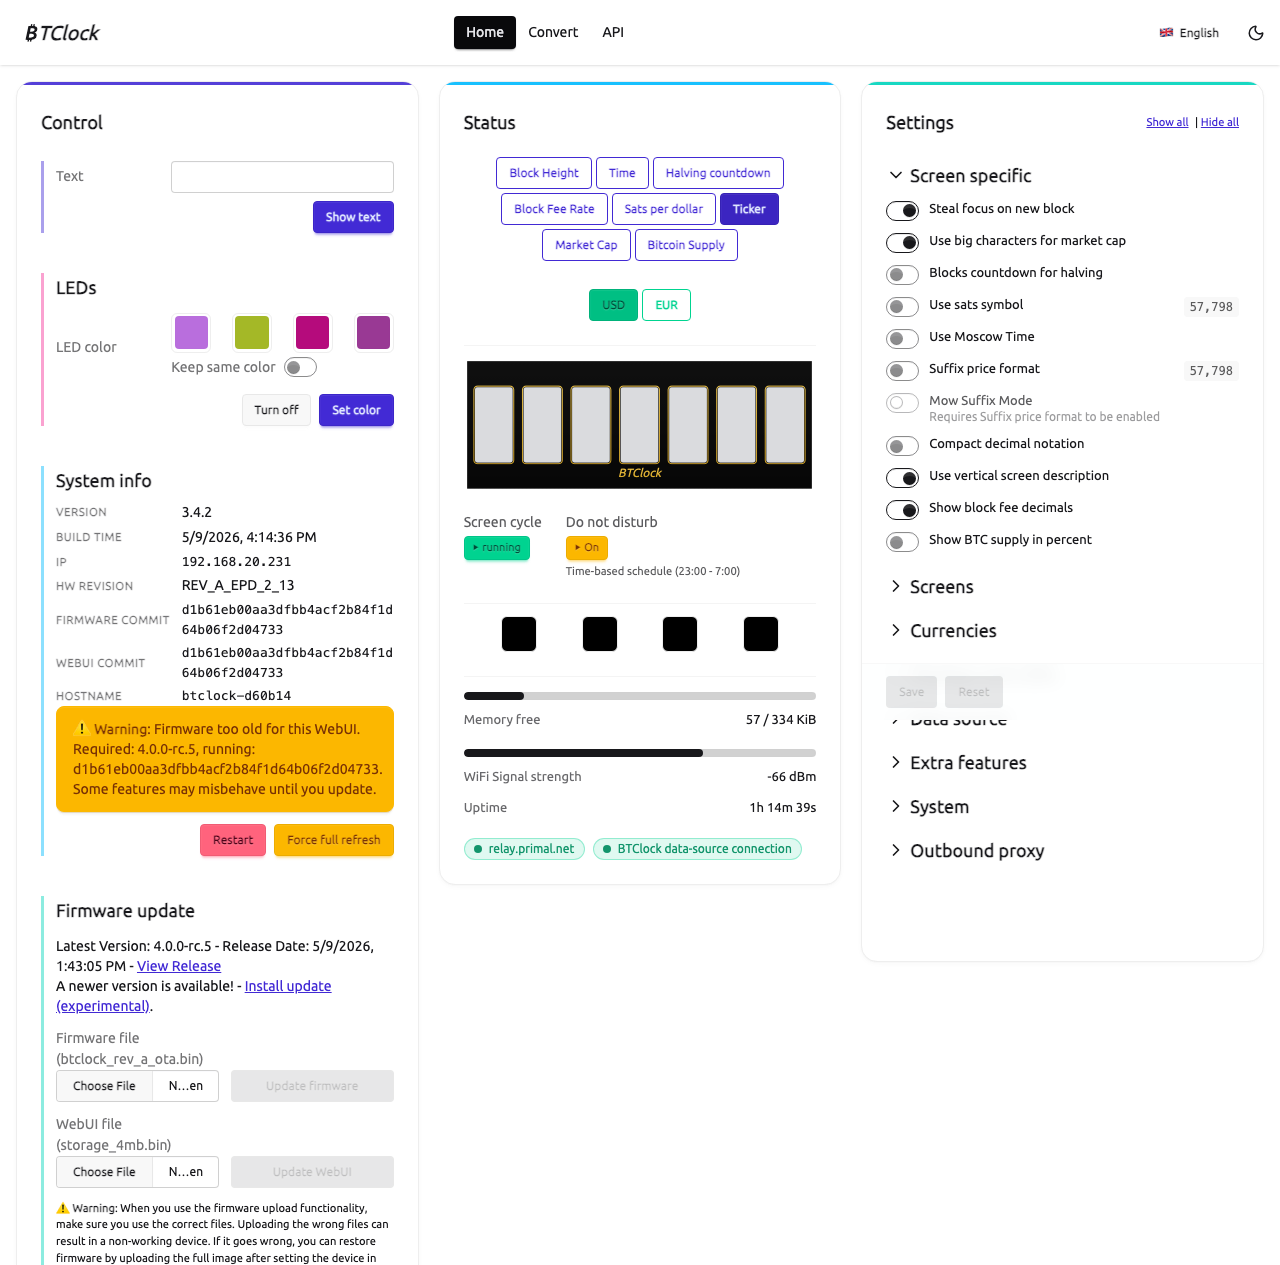
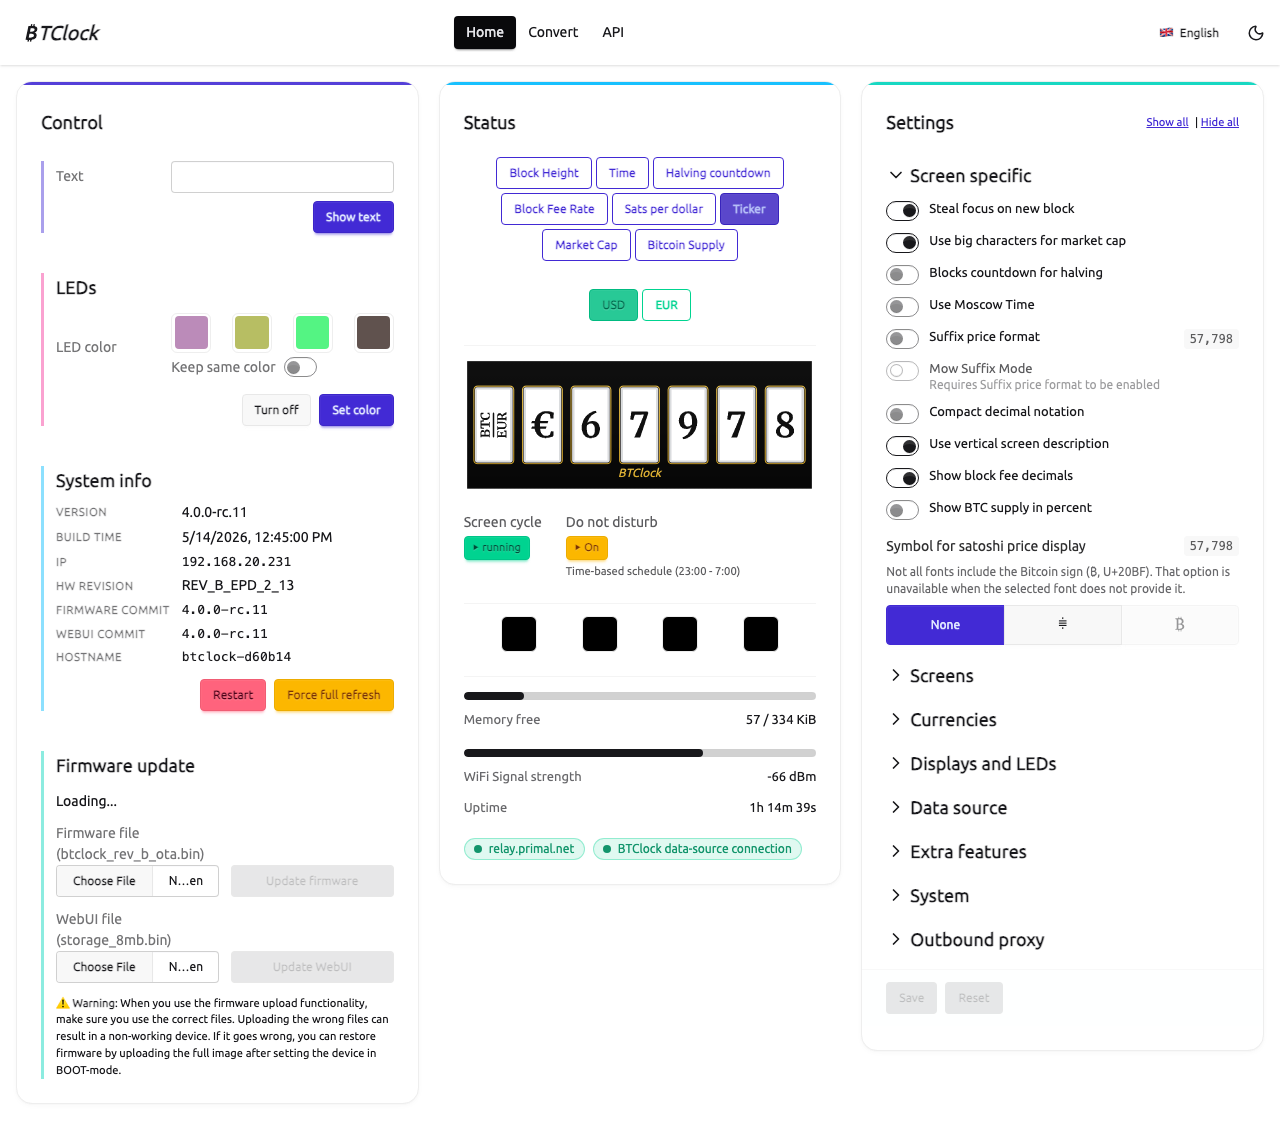
docs(readme): refresh screenshots with live framebuffer + REV_B mocks
The previous capture predated the v4 UI rework: empty framebuffer
preview, REV_A hwRev, an outdated firmware version that tripped
SystemInfo's "firmware too old" banner, and a mid-document sticky
Save/Reset bar overlapping collapsed sections.

- Capture seven BTFB frames from btclock-b52800.local once and replay
  them via a patched window.WebSocket in the doc-screenshot test, so
  FramebufferPreview shows the real BTC/EUR ticker instead of empty
  gold-ringed panels.
- Bump mock gitRev/fsRev/gitTag to 4.0.0-rc.11 (matches manifest's
  MIN_FIRMWARE) and flip hwRev to REV_B_EPD_2_13 so System info
  reflects the hardware the WebUI is actually exercised against.
- Widen the doc-screenshot viewport to 1280x1500 and clip to actual
  content height; the sticky Save/Reset bar then lands at the natural
  bottom of the form instead of pinning mid-document during fullPage
  captures.

diff --git a/tests/doc-screenshots/viewport-screenshots.spec.ts b/tests/doc-screenshots/viewport-screenshots.spec.ts
@@ -3,10 +3,20 @@ import { test, expect } from '@playwright/test';
 import { initMock, settingsJson, statusJson } from '../shared';
 import { waitForStatusConnected } from '../wait-for-status-connected';
 import sharp from 'sharp';
+import { readFileSync } from 'node:fs';
+import { fileURLToPath } from 'node:url';
+import { dirname, join } from 'node:path';
 
 test.beforeEach(initMock);
 
-// Define the translations for the headings
+// Captured 2026-05-14 from btclock-b52800.local (REV_B_EPD_2_13, fw
+// 4.0.0-rc.11) via tools/capture_fb.mjs — replays in the doc screenshot
+// so FramebufferPreview shows the real BTC/USD ticker instead of empty
+// gold-ringed panels.
+const FB_FRAMES: { panelIndex: number; base64: string }[] = JSON.parse(
+	readFileSync(join(dirname(fileURLToPath(import.meta.url)), 'framebuffer-frames.json'), 'utf8')
+);
+
 const headings = {
 	en: {
 		control: 'Control',
@@ -47,6 +57,106 @@ test('capture screenshots across devices', async ({ page }, testInfo) => {
 		settingsJson.invertedColor = false;
 	}
 
+	// Match the live REV_B device: bump gitRev to satisfy MIN_FIRMWARE
+	// so SystemInfo's "firmware too old" banner stays hidden, and flip
+	// hwRev to REV_B_EPD_2_13 so the dev-doc screenshot reflects the
+	// hardware the WebUI is actually exercised against.
+	settingsJson.hwRev = 'REV_B_EPD_2_13';
+	settingsJson.gitRev = '4.0.0-rc.11';
+	settingsJson.fsRev = '4.0.0-rc.11';
+	settingsJson.gitTag = '4.0.0-rc.11';
+
+	// Inject the captured framebuffer packets into the page so the
+	// patched WebSocket below can replay them once the FramebufferPreview
+	// component connects to `/api/preview/ws`.
+	await page.addInitScript((frames) => {
+		(window as unknown as { __FB_PREVIEW_FRAMES__: typeof frames }).__FB_PREVIEW_FRAMES__ =
+			frames;
+	}, FB_FRAMES);
+
+	// Patch `window.WebSocket` so any connection to `/api/preview/ws`
+	// resolves locally and emits the captured BTFB frames. Mirrors the
+	// EventSource patch in `initMock` — same pattern (real EventTarget,
+	// microtask-deferred dispatch) avoids "Illegal invocation".
+	await page.addInitScript(() => {
+		const Native = window.WebSocket;
+		class PatchedWebSocket extends EventTarget {
+			static CONNECTING = 0;
+			static OPEN = 1;
+			static CLOSING = 2;
+			static CLOSED = 3;
+			CONNECTING = 0;
+			OPEN = 1;
+			CLOSING = 2;
+			CLOSED = 3;
+			url: string;
+			readyState: number = 0;
+			binaryType: BinaryType = 'arraybuffer';
+			protocol = '';
+			extensions = '';
+			bufferedAmount = 0;
+			onopen: ((this: WebSocket, ev: Event) => unknown) | null = null;
+			onmessage: ((this: WebSocket, ev: MessageEvent) => unknown) | null = null;
+			onerror: ((this: WebSocket, ev: Event) => unknown) | null = null;
+			onclose: ((this: WebSocket, ev: CloseEvent) => unknown) | null = null;
+			constructor(url: string | URL) {
+				super();
+				const href = typeof url === 'string' ? url : url.href;
+				this.url = href;
+				let pathname = href;
+				try {
+					pathname = new URL(href, window.location.origin).pathname;
+				} catch {
+					// Treat as path-only; the suffix check below covers it.
+				}
+				if (!pathname.endsWith('/api/preview/ws')) {
+					// Fall back to the native implementation for any other socket.
+					// Returning a new native instance from a constructor is allowed —
+					// callers receive `Native` directly.
+					return new Native(url) as unknown as PatchedWebSocket;
+				}
+				queueMicrotask(() => {
+					this.readyState = 1;
+					const openEv = new Event('open');
+					this.dispatchEvent(openEv);
+					if (typeof this.onopen === 'function')
+						this.onopen.call(this as unknown as WebSocket, openEv);
+					const streamingEv = new MessageEvent('message', {
+						data: JSON.stringify({ streaming: true })
+					});
+					this.dispatchEvent(streamingEv);
+					if (typeof this.onmessage === 'function')
+						this.onmessage.call(this as unknown as WebSocket, streamingEv);
+					const frames = (
+						window as unknown as {
+							__FB_PREVIEW_FRAMES__?: { panelIndex: number; base64: string }[];
+						}
+					).__FB_PREVIEW_FRAMES__;
+					if (!frames) return;
+					for (const frame of frames) {
+						const bin = atob(frame.base64);
+						const buf = new ArrayBuffer(bin.length);
+						const view = new Uint8Array(buf);
+						for (let i = 0; i < bin.length; i++) view[i] = bin.charCodeAt(i);
+						const ev = new MessageEvent('message', { data: buf });
+						this.dispatchEvent(ev);
+						if (typeof this.onmessage === 'function')
+							this.onmessage.call(this as unknown as WebSocket, ev);
+					}
+				});
+			}
+			send() {}
+			close() {
+				this.readyState = 3;
+				const ev = new CloseEvent('close');
+				this.dispatchEvent(ev);
+				if (typeof this.onclose === 'function')
+					this.onclose.call(this as unknown as WebSocket, ev);
+			}
+		}
+		window.WebSocket = PatchedWebSocket as unknown as typeof WebSocket;
+	});
+
 	await page.goto('/');
 	await expect(page.getByRole('heading', { name: translations.control })).toBeVisible();
 	await expect(page.getByRole('heading', { name: translations.status })).toBeVisible();
@@ -58,8 +168,42 @@ test('capture screenshots across devices', async ({ page }, testInfo) => {
 
 	await waitForStatusConnected(page);
 
+	// Wait for the panel rasters to land on the canvas. FramebufferPreview
+	// applies frames inside an effect; without this wait the screenshot
+	// races the first redraw and panels still look empty even though
+	// the WS replay finished. We detect "frames painted" by sampling a
+	// row across the panel band: an empty canvas is uniform PCB chrome
+	// or uniform panel face, painted panels yield high luma variance.
+	await page.waitForFunction(() => {
+		const canvas = document.querySelector('.preview-canvas') as HTMLCanvasElement | null;
+		if (!canvas || canvas.width === 0 || canvas.height === 0) return false;
+		const ctx = canvas.getContext('2d');
+		if (!ctx) return false;
+		const row = ctx.getImageData(0, Math.floor(canvas.height * 0.4), canvas.width, 1).data;
+		let min = 255;
+		let max = 0;
+		for (let i = 0; i < row.length; i += 4) {
+			const v = row[i];
+			if (v < min) min = v;
+			if (v > max) max = v;
+		}
+		return max - min > 120;
+	});
+
+	// Clip to the actual content height — the doc-screenshot viewport
+	// is intentionally tall (so the sticky Save/Reset bar lands at its
+	// natural form bottom instead of pinning mid-document), but that
+	// leaves several hundred px of empty footer below the cards. Trim
+	// it by clipping to the last painted row + a small margin.
+	const viewport = page.viewportSize();
+	const viewportWidth = viewport?.width ?? 1280;
+	const contentHeight = await page.evaluate(() => {
+		const root = document.querySelector('.grid.grid-cols-1');
+		if (!root) return document.documentElement.scrollHeight;
+		return Math.ceil(root.getBoundingClientRect().bottom + 24);
+	});
 	const screenshot = await page.screenshot({
-		fullPage: true
+		clip: { x: 0, y: 0, width: viewportWidth, height: contentHeight }
 	});
 
 	await sharp(screenshot)

diff --git a/playwright.doc-screenshot.config.ts b/playwright.doc-screenshot.config.ts
@@ -1,17 +1,24 @@
 import { defineConfig, devices } from '@playwright/test';
 import { baseConfig } from './playwright.base';
 
+// Taller-than-default viewport so the page fits in one window without
+// scrolling. `position: sticky` on Settings' Save/Reset bar otherwise
+// pins it to the *viewport* bottom mid-document during full-page
+// captures — the natural bottom of the form is what we want in the
+// docs screenshot.
+const docViewport = { width: 1280, height: 1500 };
+
 export default defineConfig({
 	...baseConfig,
 	testDir: 'tests/doc-screenshots',
 	projects: [
 		{
 			name: 'doc-light',
-			use: { ...devices['Desktop Chrome'], colorScheme: 'light' }
+			use: { ...devices['Desktop Chrome'], viewport: docViewport, colorScheme: 'light' }
 		},
 		{
 			name: 'doc-dark',
-			use: { ...devices['Desktop Chrome'], colorScheme: 'dark' }
+			use: { ...devices['Desktop Chrome'], viewport: docViewport, colorScheme: 'dark' }
 		}
 	]
 });
